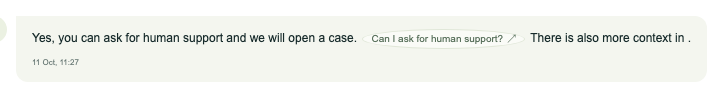
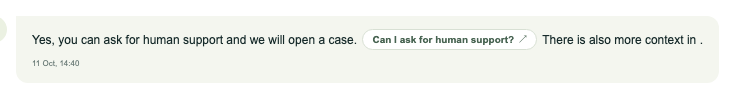
Chat: citation chip is a real pill
--radius-pill is 50%, which only yields a circle on square elements; on the
wide chip it produced an ellipse. Add --radius-full for true pills and tighten
the chip (white surface, defined border, semibold label).

Generated with [Devin](https://devin.ai)

Changed region(s): [[0.0304, 0.3061, 0.9737, 0.4898], [0.0304, 0.5816, 0.1217, 0.6735]]

diff --git a/app/styles/chat.css b/app/styles/chat.css
@@ -176,23 +176,25 @@
 .citation {
   display: inline-flex;
   align-items: center;
-  gap: 4px;
-  vertical-align: baseline;
+  gap: 5px;
+  vertical-align: 1px;
   margin: 0 2px;
-  padding: 1px 8px;
-  border: 1px solid var(--color-suggestion-border);
-  border-radius: var(--radius-pill);
-  background: var(--color-suggestion-bg);
-  color: var(--color-suggestion-text);
+  padding: 2px 9px;
+  border: 1px solid var(--color-secondary-border);
+  border-radius: var(--radius-full);
+  background: var(--color-surface);
+  color: var(--color-secondary-text);
   font: inherit;
   font-size: 10px;
-  line-height: 1.6;
+  font-weight: 600;
+  line-height: 1.5;
   cursor: pointer;
   white-space: nowrap;
   transition: background-color var(--dur-fast) ease;
 }
 .citation span {
-  font-size: 9px;
+  font-size: 8px;
+  font-weight: 400;
 }
 @media (hover: hover) and (pointer: fine) {
   .citation:hover {

diff --git a/app/styles/tokens.css b/app/styles/tokens.css
@@ -116,6 +116,7 @@
   --radius-xl: 15px;
   --radius-2xl: 12px;
   --radius-pill: 50%;
+  --radius-full: 999px;
   --ink: var(--color-ink);
   --muted: var(--color-ink-muted);
   --line: var(--color-line);
